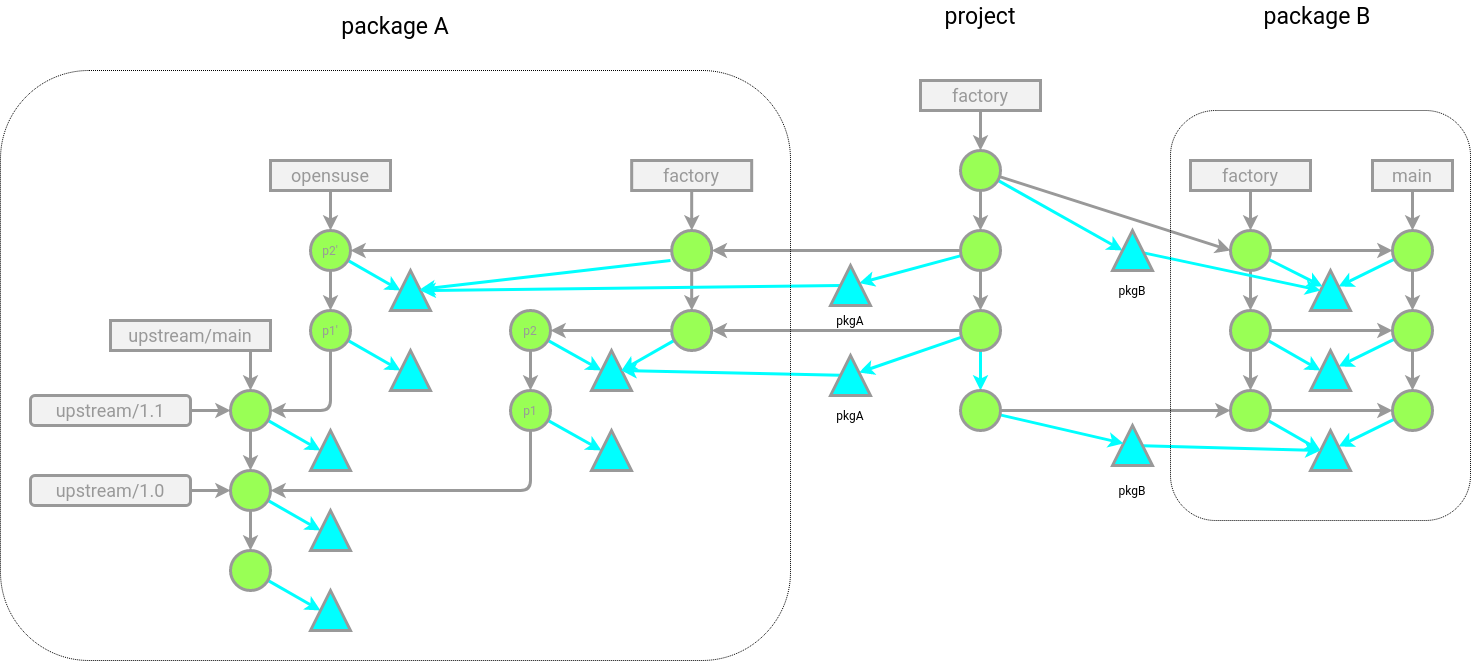
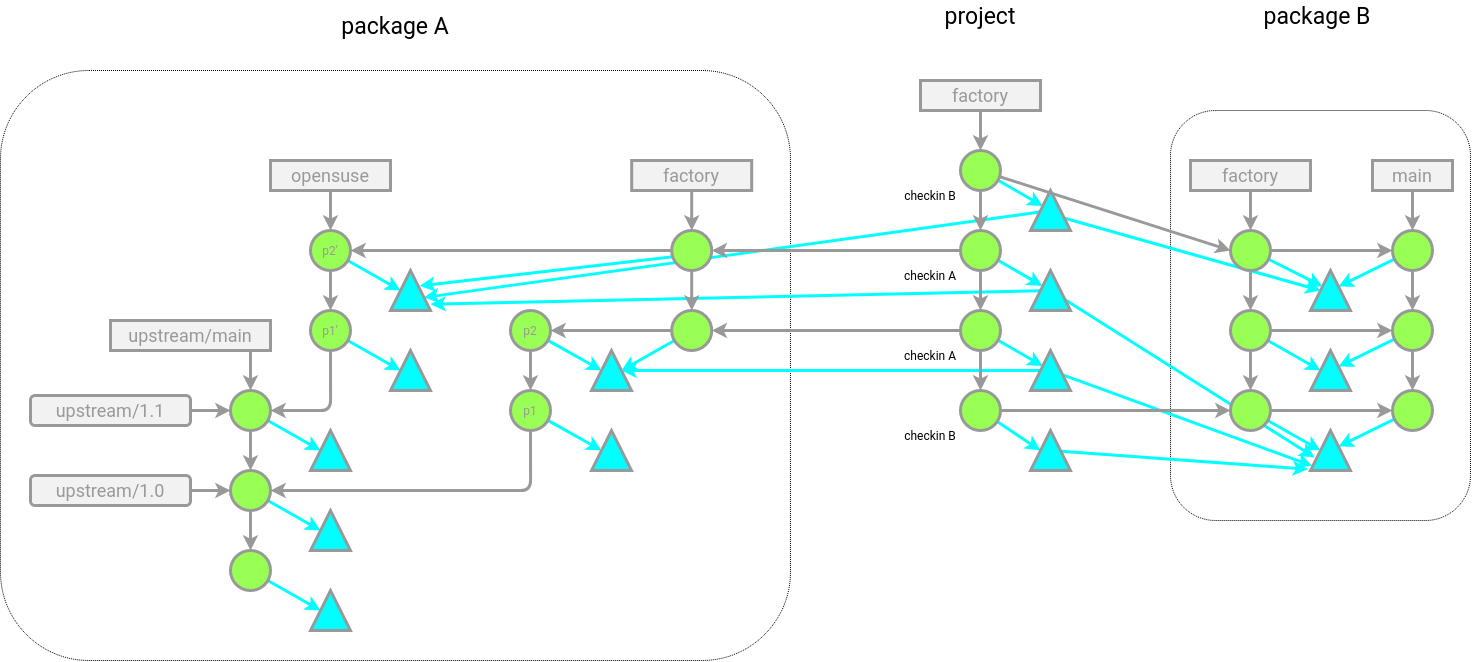
Fix project view graph
The tree representation was wrong.

diff --git a/git-native-packaging.md b/git-native-packaging.md
@@ -280,19 +280,24 @@ _factory_:
 
 ## Managing a project in git
 
-### Monorepo approach
+### Monorepo/subtree approach
 
 The same approach that works for single packages also works on
 project level. A project basically is an aggregation of packages in
 subdirectories. Means commits to the project need to refer to a tree
 that contains the package in a subdirectory.
 
-There are two ways how a project could aggregate packages. One way to
-aggregate a factory branch as described above. Another way would be
-to omit the per-package factory branch and directly merge into the
-project as it was done on package level before. 
+With this approach the whole history of all packages and their
+upstreams would be in one giant repository. When setting it up the
+right way using subtrees every package still keeps it's own history.
 
-In both cases again a custom merge method is needed:
+There are two ways how a project could aggregate packages in this
+model. One way would be to aggregate a factory branch as described
+above. Another way would be to omit the per-package factory branch
+and directly merge into the project as it was done on package level
+before.
+
+Again a custom merge method is needed:
 
 	$ cat > ~/bin/git-merge-subdir <<EOF
 	#!/bin/bash -e
@@ -305,10 +310,23 @@ In both cases again a custom merge method is needed:
 	h="$1" # HEAD
 	c="$2" # the actual merge commit
 	: "${SUBDIR:?}"
-	tree="$(git rev-parse "$c^{tree}")"
-	newtree="$(echo -e "040000 tree $tree\t$SUBDIR" | git mktree)"
-	git read-tree --reset "$newtree"
+	treeref="$(git rev-parse "$c^{tree}")"
+	# replace existing subdir or add new one
+	makenewtree() {
+		local found=''
+		while read m t r d; do
+			if [ "$d" = "$SUBDIR" ]; then
+				r="$treeref"
+				found=1;
+			fi
+			echo -e "$m $t $r\t$d"
+		done < <(git cat-file -p HEAD^{tree})
+		[ -n "$found" ] || echo -e "040000 tree $treeref\t$SUBDIR"
+	}
+	newtreeref=$(makenewtree | git mktree)
+	git read-tree "$newtreeref"
 	EOF
+
 	$ chmod 755 ~/bin/git-merge-subdir
 
 ### Merging the factory branch into the project
